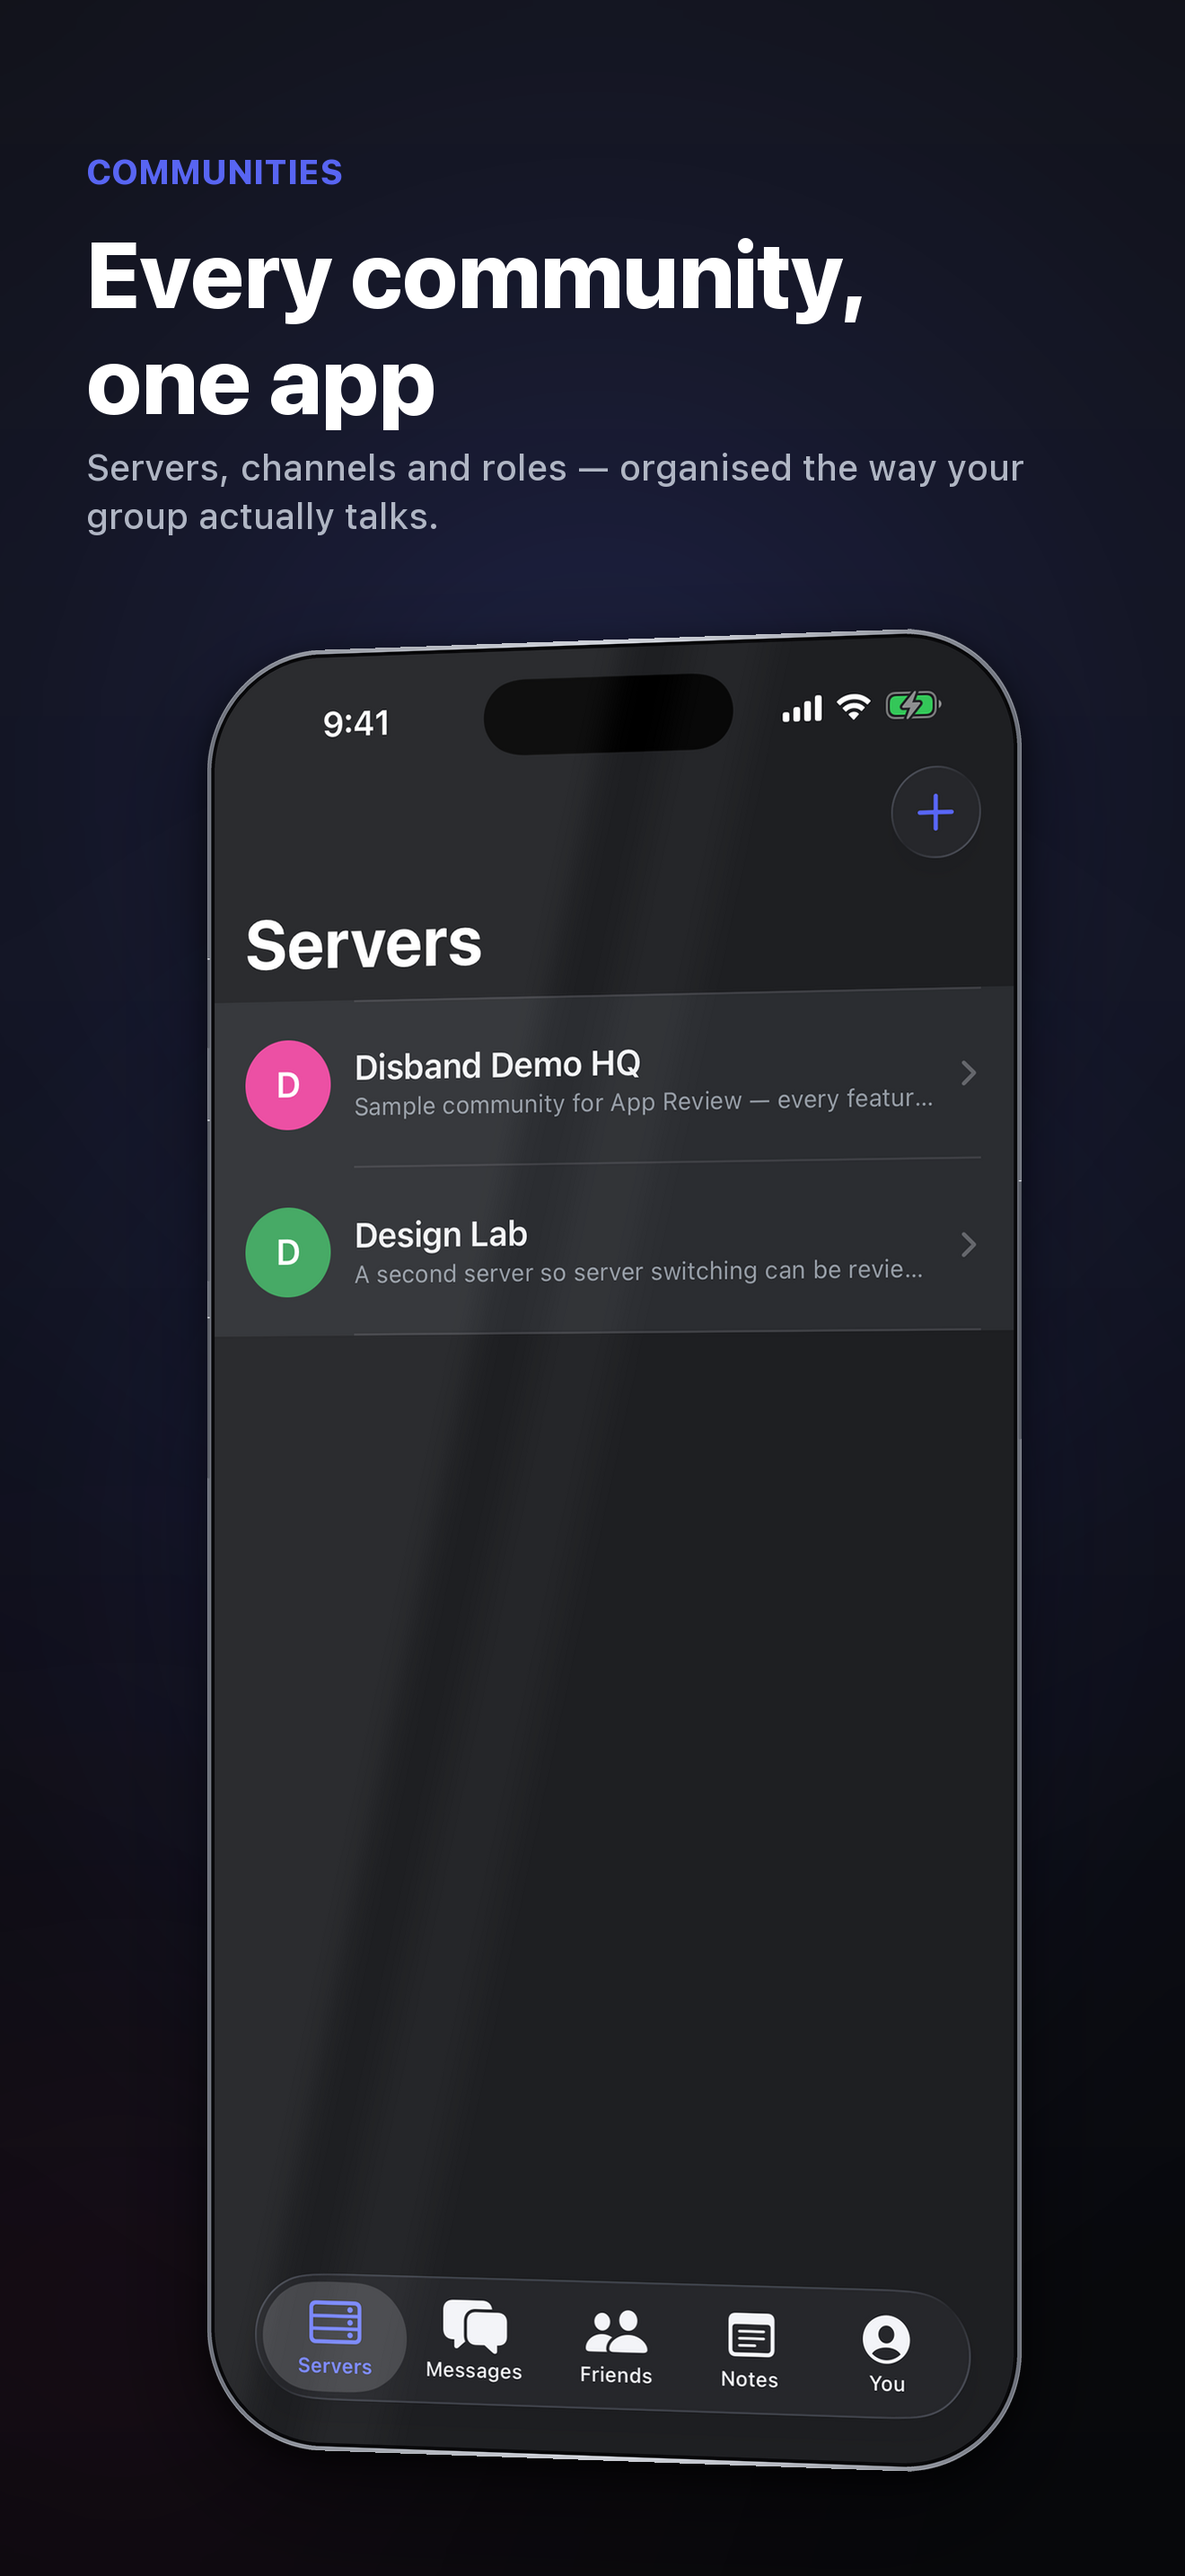
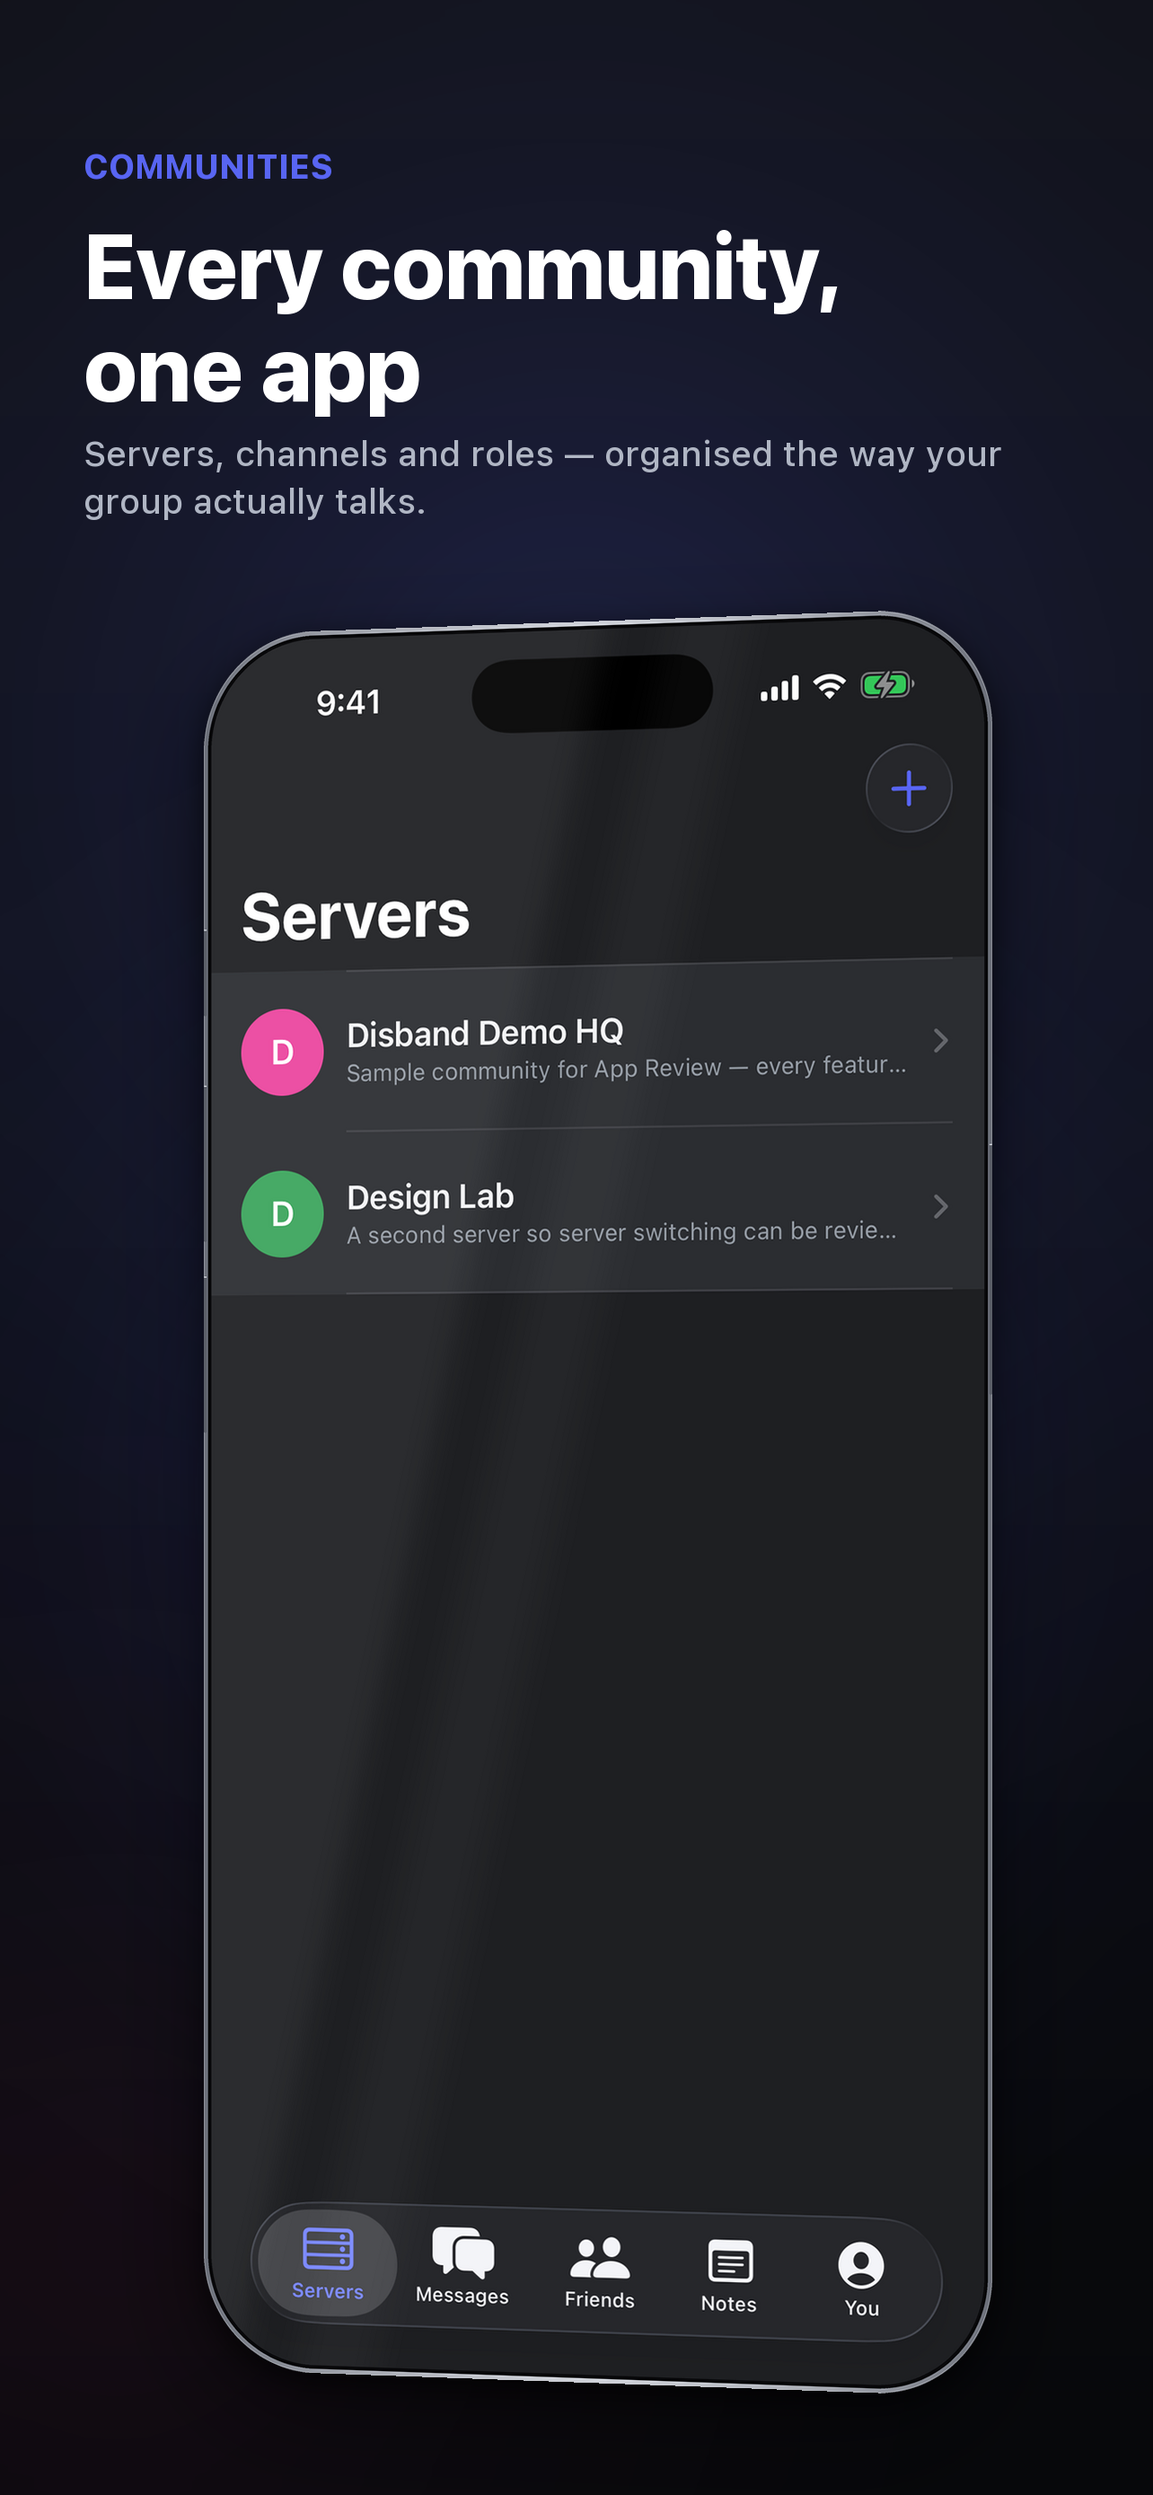
marketing

diff --git a/marketing/build-appstore-shots.py b/marketing/build-appstore-shots.py
@@ -1,5 +1,5 @@
 """
-Builds App Store screenshots at the 6.9" iPhone size (1320x2868).
+Builds App Store screenshots at 1284x2778 (6.5" portrait) by default.
 
 Real captures from the running app are composited into a dimensional frame —
 perspective tilt, contact shadow, rim light, depth-of-field gradient — rather
@@ -18,7 +18,20 @@ import sys
 sys.path.insert(0, str(Path(__file__).resolve().parent))
 import device as device_mod
 
-W, H = 1320, 2868                      # App Store 6.9" portrait
+# App Store portrait sizes. 1284x2778 is the 6.5" slot; 1320x2868 is 6.9".
+# Override from the command line: `python3 build-appstore-shots.py 1320 2868`.
+REF_W = 1320                           # width the layout constants were tuned at
+W, H = 1284, 2778                      # App Store 6.5" portrait (default)
+
+if len(sys.argv) >= 3:
+    W, H = int(sys.argv[1]), int(sys.argv[2])
+
+
+def s(value: float) -> int:
+    """Scale a constant that was tuned at REF_W so the composition holds at any
+    canvas width. Margins, type and spacing all move together; anything already
+    expressed as a fraction of W or H is left alone."""
+    return max(1, round(value * W / REF_W))
 SRC = Path(__file__).resolve().parent / "source-captures"
 OUT = Path(__file__).resolve().parent / "appstore"
 
@@ -170,43 +183,43 @@ def build(panel, index):
     draw = ImageDraw.Draw(canvas)
 
     # --- type -------------------------------------------------------------
-    m = 96
-    y = 168
+    m = s(96)
+    y = s(168)
 
-    f_eye = font(38, 800)
+    f_eye = font(s(38), 800)
     draw.text((m, y), panel["eyebrow"], font=f_eye, fill=hue + (255,))
-    y += 74
+    y += s(74)
 
     # Shrink the headline until the longest line clears the margin, rather than
     # hand-tuning copy per panel. "unmistakably yours" ran to within 35px of the
     # edge at the nominal size.
     lines = panel["title"].split("\n")
-    size = 104
-    while size > 68:
+    size = s(104)
+    while size > s(68):
         f_title = font(size, 800)
         if max(draw.textlength(l, font=f_title) for l in lines) <= W - m * 2:
             break
-        size -= 4
+        size -= s(4)
     f_title = font(size, 800)
     for line in lines:
         draw.text((m, y), line, font=f_title, fill=(255, 255, 255, 255))
         y += int(size * 1.135)
-    y += 18
+    y += s(18)
 
-    f_sub = font(40, 500)
-    for line in wrap(draw, panel["sub"], f_sub, W - m * 2 - 40):
+    f_sub = font(s(40), 500)
+    for line in wrap(draw, panel["sub"], f_sub, W - m * 2 - s(40)):
         draw.text((m, y), line, font=f_sub, fill=(176, 182, 196, 255))
-        y += 54
+        y += s(54)
 
     # --- device -----------------------------------------------------------
     shot = Image.open(SRC / panel["shot"]).convert("RGB")
 
     # Fit to whatever vertical room the copy left, so a longer headline shrinks
     # the device rather than pushing it off the canvas.
-    top = y + 92
+    top = y + s(92)
     # Leave real breathing room below: the device was running off the canvas.
-    avail_h = H - top - 112
-    rail, bezel = 5, 4
+    avail_h = H - top - s(112)
+    rail, bezel = max(1, s(5)), max(1, s(4))
     target_w = int(W * 0.74)
     target_h = round(shot.height * target_w / shot.width)
     if target_h + (rail + bezel) * 2 > avail_h:
